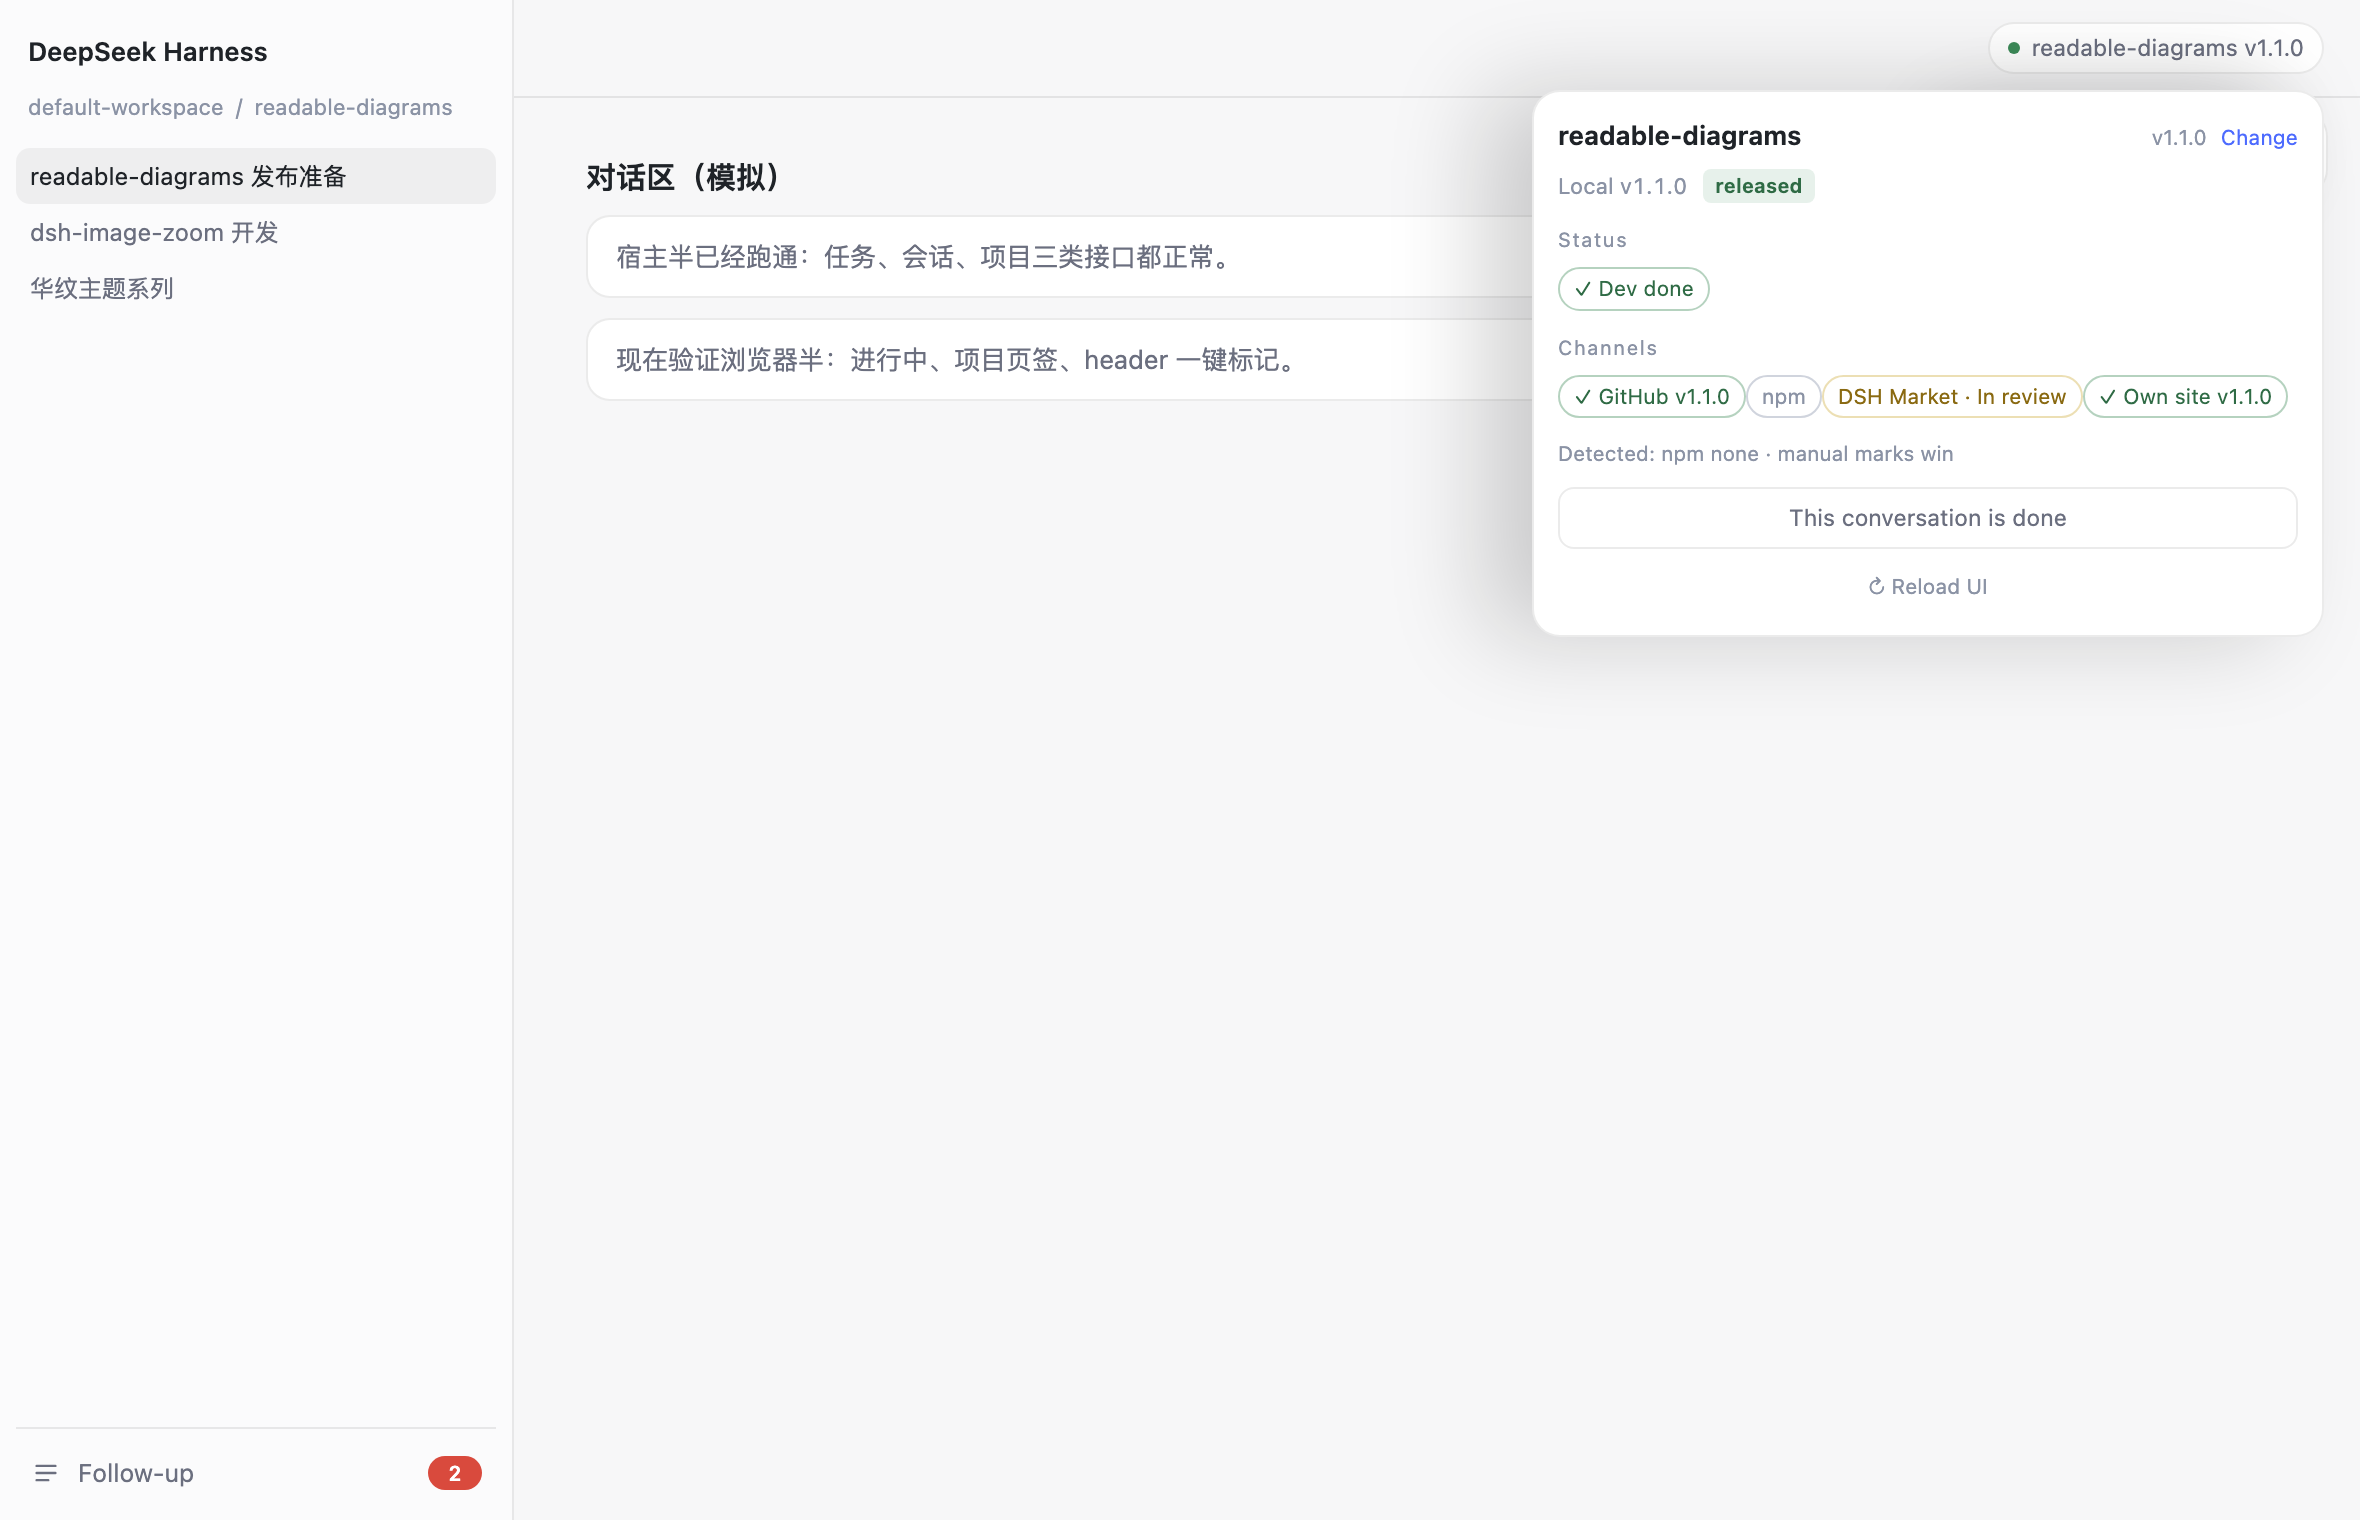
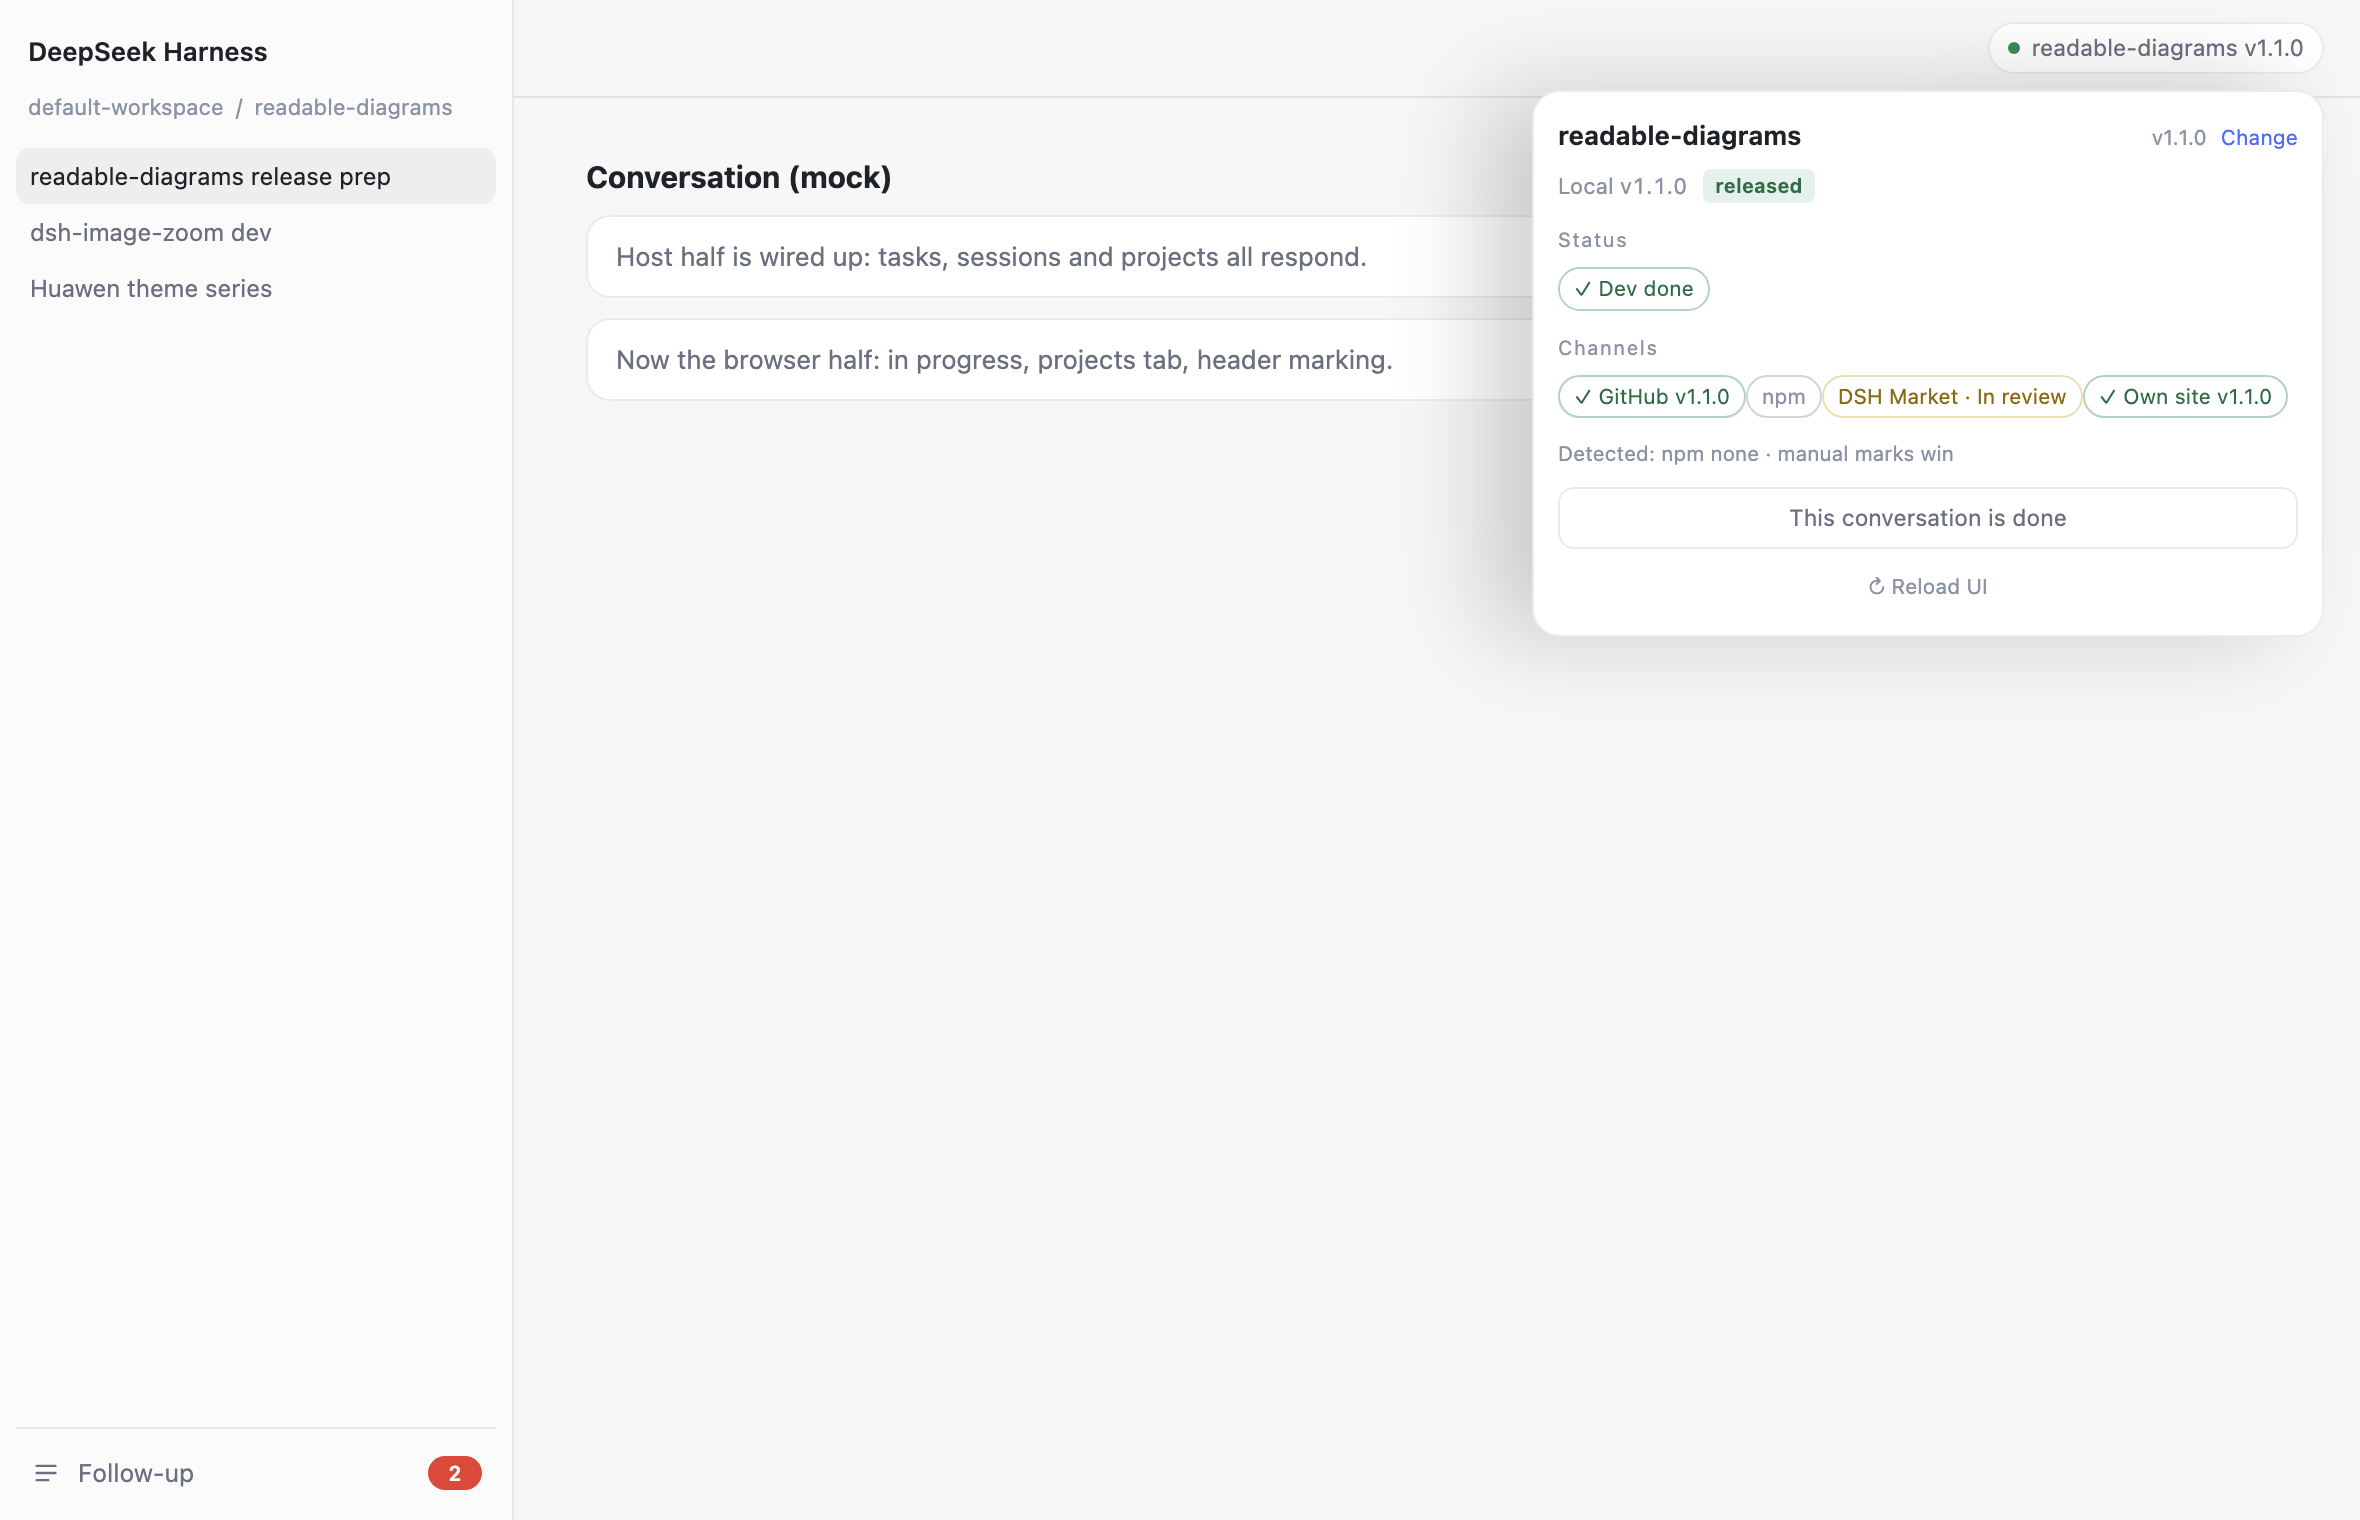
docs: show all three surfaces in the main visual; sync published copy

diff --git a/tests/harness.html b/tests/harness.html
@@ -70,6 +70,7 @@
     const now = Date.now()
     const DAY = 86400000
     const FORCE_PICK = new URLSearchParams(location.search).get('mode') === 'pick'
+    const EN = new URLSearchParams(location.search).get('lang') === 'en'
     const project = {
       path: '/Users/robinham/Documents/deepseek-harness/default-workspace/readable-diagrams',
       name: 'readable-diagrams', dir: 'readable-diagrams', version: '1.1.0', lastActive: now - 2 * DAY,
@@ -113,6 +114,28 @@
         { id: 's-dormant', title: '很早以前的皮肤实验', category: 'dormant', reasons: [{ code: 'todos', count: 1 }], lastPromptAt: now - 9 * 86400000, cwd: '/x/dsh-skin', projectName: 'dsh-skin' },
       ],
     }
+    if (EN) {
+      const taskTitles = {
+        'f-1': 'Verify dsh-followup on desktop: sidebar entry, panel, jump back',
+        'f-2': 'Finish the dsh-followup README and install notes',
+        'f-3': 'Publish dsh-followup to the DSH Market',
+        'f-4': 'Settle the global task-layer plan',
+      }
+      for (const task of store.tasks) task.title = taskTitles[task.id] ?? task.title
+      const sessionCopy = {
+        's-wait': { title: 'Huawen theme series: pre-release review' },
+        's-idle': { title: 'Image-preview plugin: build and release', team: ['Huawen texture layer: brick + floor', 'Huawen series independent review'] },
+        's-dormant': { title: 'An old skin experiment' },
+      }
+      for (const session of store.sessions) {
+        const copy = sessionCopy[session.id]
+        if (copy) {
+          session.title = copy.title
+          if (copy.team) session.teamTasks = copy.team
+        }
+      }
+    }
+
     const envelope = (value) => ({ ok: true, value })
     const respond = (value) => Promise.resolve({
       ok: true, status: 200,
@@ -124,12 +147,15 @@
       if (path.endsWith('/followup/list')) return respond({ tasks: store.tasks })
       if (path.endsWith('/followup/sessions')) return respond({ sessions: store.sessions })
       if (path.endsWith('/followup/projects')) return respond({ projects: [project, project2] })
-      if (path.endsWith('/followup/schedules')) return respond({ schedules: [
+      if (path.endsWith('/followup/schedules')) return respond({ schedules: EN ? [
+        { id: 'sc1', title: 'Check DSH Market listing status', at: now + 3 * 3600 * 1000, sessionId: 's-idle', sessionTitle: 'Image-preview plugin: build and release' },
+        { id: 'sc2', title: 'Submit the dsh-image-zoom listing PR', at: now + 26 * 3600 * 1000, sessionId: 's-idle', sessionTitle: 'Image-preview plugin: build and release' },
+      ] : [
         { id: 'sc1', title: '检查 DSH 市场收录状态', at: now + 3 * 3600 * 1000, sessionId: 's-idle', sessionTitle: '图片预览插件开发与发布' },
         { id: 'sc2', title: '提交 dsh-image-zoom 收录 PR', at: now + 26 * 3600 * 1000, sessionId: 's-idle', sessionTitle: '图片预览插件开发与发布' },
       ] })
       if (path.endsWith('/followup/session')) return respond({
-        session: { id: 's1', title: 'readable-diagrams 发布准备', cwd: project.path, endedAt: null },
+        session: { id: 's1', title: EN ? 'readable-diagrams release prep' : 'readable-diagrams 发布准备', cwd: project.path, endedAt: null },
         project: FORCE_PICK ? null : project,
         via: FORCE_PICK ? null : 'title',
         guess: (() => { const { lastActive, ...rest } = project; return rest })(),
@@ -164,6 +190,19 @@
       return Promise.reject(new Error('unexpected ' + path))
     }
 
+    if (EN) {
+      const fakeSessions = [...document.querySelectorAll('.fake-session')]
+      const sessionLabels = ['readable-diagrams release prep', 'dsh-image-zoom dev', 'Huawen theme series']
+      fakeSessions.forEach((el, i) => { if (sessionLabels[i]) el.textContent = sessionLabels[i] })
+      const mockHeading = document.querySelector('.fake-body h1')
+      if (mockHeading) mockHeading.textContent = 'Conversation (mock)'
+      const fakeTitle = document.querySelector('.fake-title')
+      if (fakeTitle) fakeTitle.textContent = 'Conversation · readable-diagrams release prep'
+      const bubbles = [...document.querySelectorAll('.fake-bubble')]
+      if (bubbles[0]) bubbles[0].textContent = 'Host half is wired up: tasks, sessions and projects all respond.'
+      if (bubbles[1]) bubbles[1].textContent = 'Now the browser half: in progress, projects tab, header marking.'
+    }
+
     window.__ModuleLoader__ = { load(options) { window.__FU_MODULE__ = options } }
     window.__FU_SLOTS__ = {}
     const ctx = {
@@ -178,9 +217,9 @@
       get(name) {
         if (name === 'sessions') {
           return { list: { getSnapshot: () => ({ byId: {
-            s1: { displayTitle: 'readable-diagrams 发布准备' },
-            's-wait': { displayTitle: '华纹主题系列包发布前独立验收' },
-            's-idle': { displayTitle: '图片预览插件开发与发布' },
+            s1: { displayTitle: EN ? 'readable-diagrams release prep' : 'readable-diagrams 发布准备' },
+            's-wait': { displayTitle: EN ? 'Huawen theme series: pre-release review' : '华纹主题系列包发布前独立验收' },
+            's-idle': { displayTitle: EN ? 'Image-preview plugin: build and release' : '图片预览插件开发与发布' },
           } }) } }
         }
         return undefined

diff --git a/README.en.md b/README.en.md
@@ -19,6 +19,8 @@ AI multiplies chats, projects and tasks, fragments attention, and leaves things 
 
 One line: **mark in the chat → align with the project → close in the list.**
 
+**All three points together are the product.**
+
 The left sidebar is the entry, not the console; the right panel is the result, not the main interface. The control surface is the conversation header.
 
 ![Conversation header: the control](assets/header-en.png)
